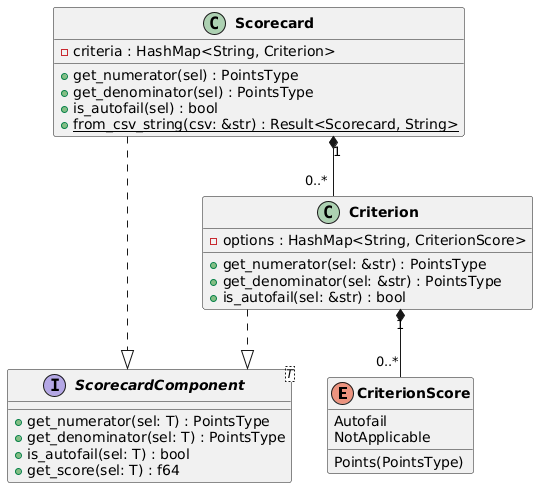
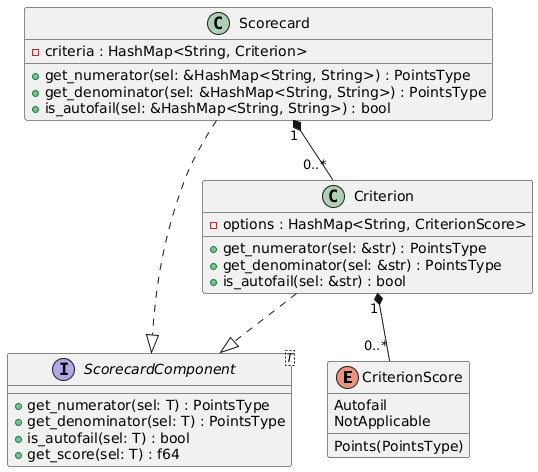
Updated docs and UML

Changed region(s): [[0.0595, 0.0, 1.0, 0.6822], [0.0, 0.6822, 0.5651, 0.9788], [0.5948, 0.7119, 0.8922, 0.9788]]

diff --git a/README.md b/README.md
@@ -4,10 +4,4 @@ Monorepo for the Quality Assurance Management System (QAMS).
 
 ## Documentation
 
-Documentation and UML for the project can be found in the design directory in this repository. Currently, documentation exists for the following components of the application:
-
-- [Scorecard module](./design/docs/scorecard.md)
-- [Report module](./design/docs/reports.md)
-- [Command Line Interface (CLI)](./design/docs/cli.md)
-- [CLI Options](./design/docs/options.md)
-- [Use Case Diagram](./design/uml/ucd.png)
+Developer documentation and UML for the project can be found in the `design` directory in this repository. See the [developer documentation](./design/docs/README.md).

diff --git a/design/docs/reports.md b/design/docs/reports.md
@@ -1,8 +1,10 @@
 # QAMS Reports
 
-A QAMS report aggregates over multiple reviews for the same agent(s) on the same scorecard. Each QAMS report also contains information about previous reports on the same scorecard.
+A QAMS report aggregates over multiple reviews for multiple agents on the same scorecard. Each QAMS report also contains information about previous reports on the same scorecard. For a given agent, a given report might contain zero, one, or many reviews for that agent.
 
-To generate a QAMS report, a **reporting period** (start date, end date) and an **accumulation period** (number of reporting periods) needs to be supplied. The reporting period determines which reviews should be included in the current report, while the accumulation period determines how many previous reports should be used to compute the current report. By default, the accumulation period should be the number of previous reports available.
+To generate a QAMS report, a **reporting period** (start date, end date; both inclusive) and an **accumulation period** (number of reporting periods) needs to be supplied. The reporting period determines which reviews should be included in the current report, while the accumulation period determines how many previous reports should be used to compute the current report. 
+
+Each scorecard is associated with a default reporting period duration. By default, the reporting period starts the day after the previous reporting period ends, and the end date is calculated from the start date and the default reporting period duration for that scorecard. By default, the accumulation period is be the number of previous reports available.
 
 A QAMS report consists of the following:
 

diff --git a/design/docs/scorecards.md b/design/docs/scorecards.md
@@ -1,9 +1,11 @@
 # QAMS Scorecards
 
-A scorecard defines criteria and their associated scores. The following class diagram is provided to show the relationships between scorecards, criteria, and criterion scores. Note that the 'classes' in the class diagram are actually implemented as Rust `struct`s, and the "interfaces" are actually implemented as Rust `trait`s.
+A scorecard defines criteria and their associated scores. The following partial class diagram is provided to show the relationships between scorecards, criteria, and criterion scores. Note that the 'classes' in the class diagram are actually implemented as Rust `struct`s, and the "interfaces" are actually implemented as Rust `trait`s.
 
 ![Class diagram for the scorecard module](../uml/scorecard.png)
 
 Note that the `ScorecardComponent` trait achieves the **Composition** design pattern since it provides a unified interface between scorecards and criteria, where a scorecard consists of many criteria.
 
 The QAMS handles creation and editing of scorecards. Scorecards are used to produce [reviews](./reviews.md).
+
+Each scorecard is also associated with a default reporting period duration, which indicates how often a report is expected to be generated for the scorecard. For example, if a scorecard has a default reporting period duration of 1 week, then it is expected that a report will be produced from that scorecard every week. See [QAMS Reports](./reports.md)

diff --git a/design/docs/README.md b/design/docs/README.md
@@ -4,6 +4,8 @@ Welcome to the QAMS developer documentation!
 
 ## Contents
 
+Currently, developer documentation exists for the following components of the QAMS project:
+
 - [Scorecards](./scorecards.md)
 - [Reviews](./reviews.md)
 - [Reports](./reports.md)

diff --git a/design/docs/tech.md b/design/docs/tech.md
@@ -1,3 +1,3 @@
 # QAMS Technical Specification
 
-QAMS is written in the [Rust](https://rust-lang.org/) programming language (both the [core library](https://github.com/finleyowen/qams_core) and the [HTTP server](https://github.com/finleyowen/qams_server)). It uses a single HTTP server that serves HTML pages directly as well as handling back-end functionality, rather than a full-stack architecture. The QAMS server communicates with a [MySQL](https://www.mysql.com/) (or [MariaDB](https://mariadb.org/)) database through the [SQLx](https://docs.rs/sqlx/latest/sqlx/) ORM for Rust.
+QAMS is written in the [Rust](https://rust-lang.org/) programming language (both the [core library](https://github.com/finleyowen/qams_core) and the [HTTP server](https://github.com/finleyowen/qams_server)). It uses a single HTTP server that serves HTML pages directly (using [askama](https://docs.rs/askama/latest/askama/) as a template engine) as well as handling back-end functionality, rather than a full-stack architecture. The Rust implementation of the HTTP server uses crates including [axum](https://docs.rs/axum/latest/axum/), [tokio](https://docs.rs/tokio/latest/tokio/), and [tower](https://docs.rs/tower/latest/tower/). The QAMS server communicates with a [MySQL](https://www.mysql.com/) (or [MariaDB](https://mariadb.org/)) database through the [SQLx](https://docs.rs/sqlx/latest/sqlx/) ORM for Rust.